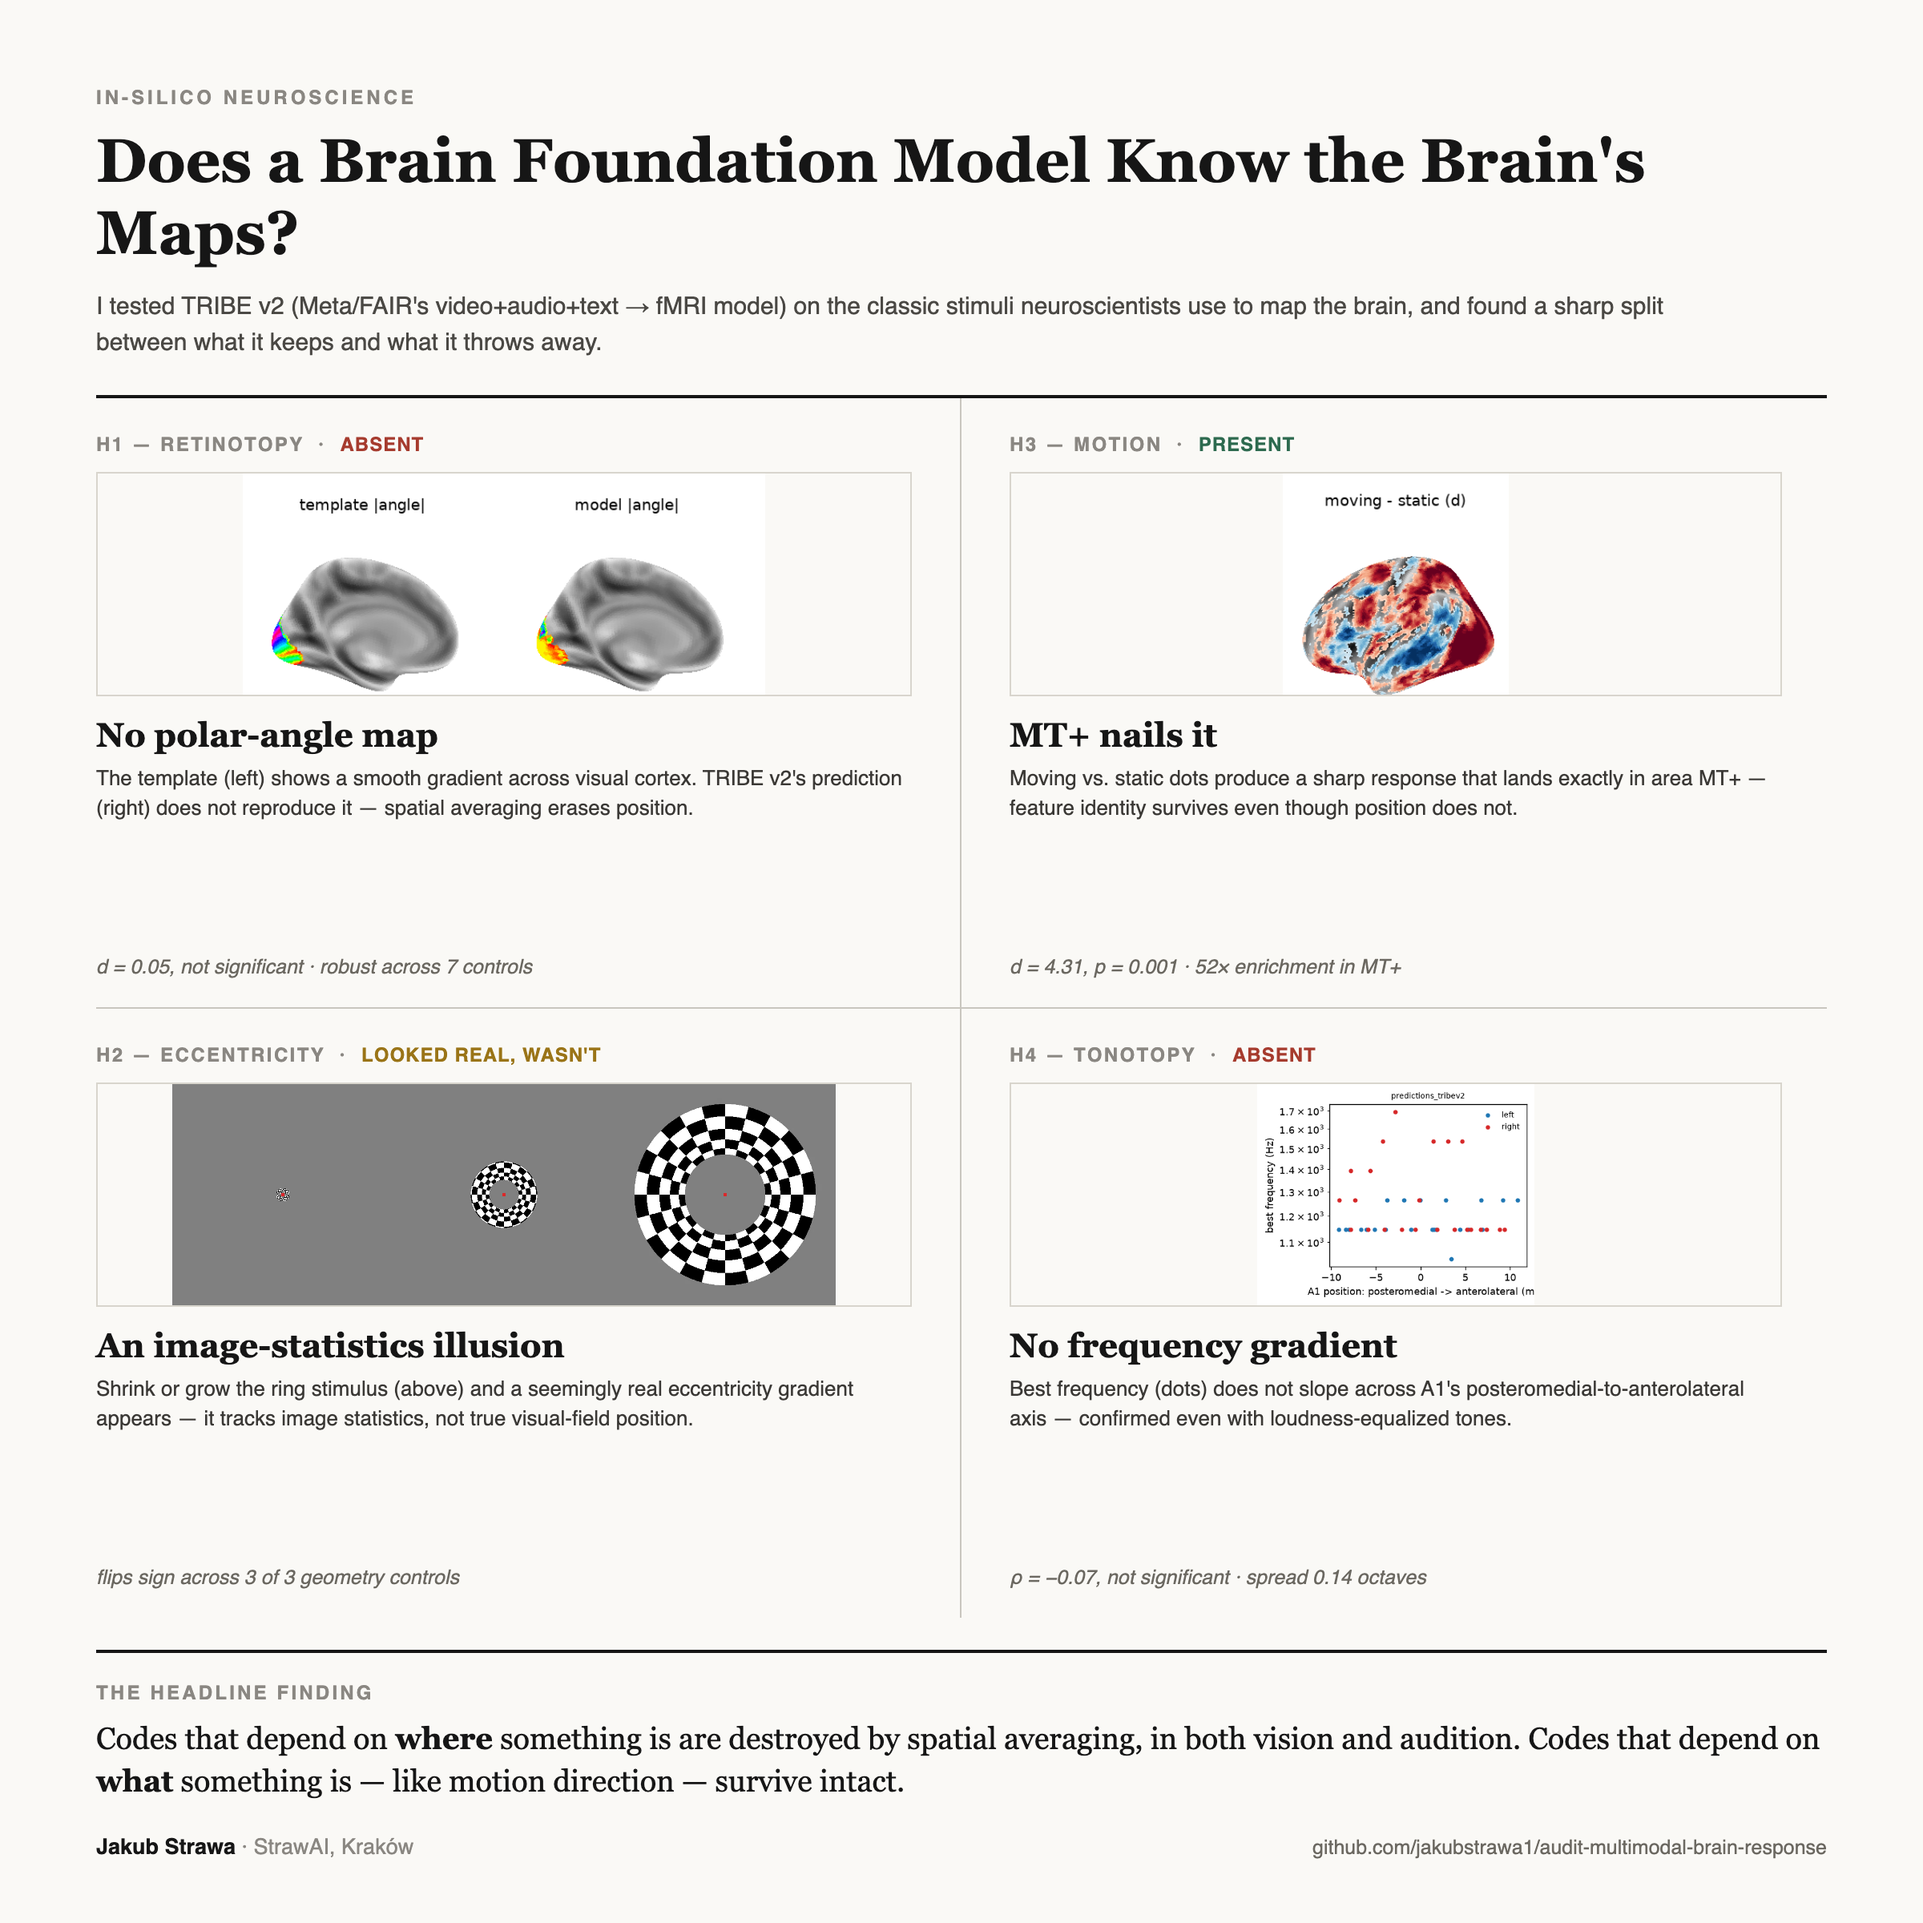
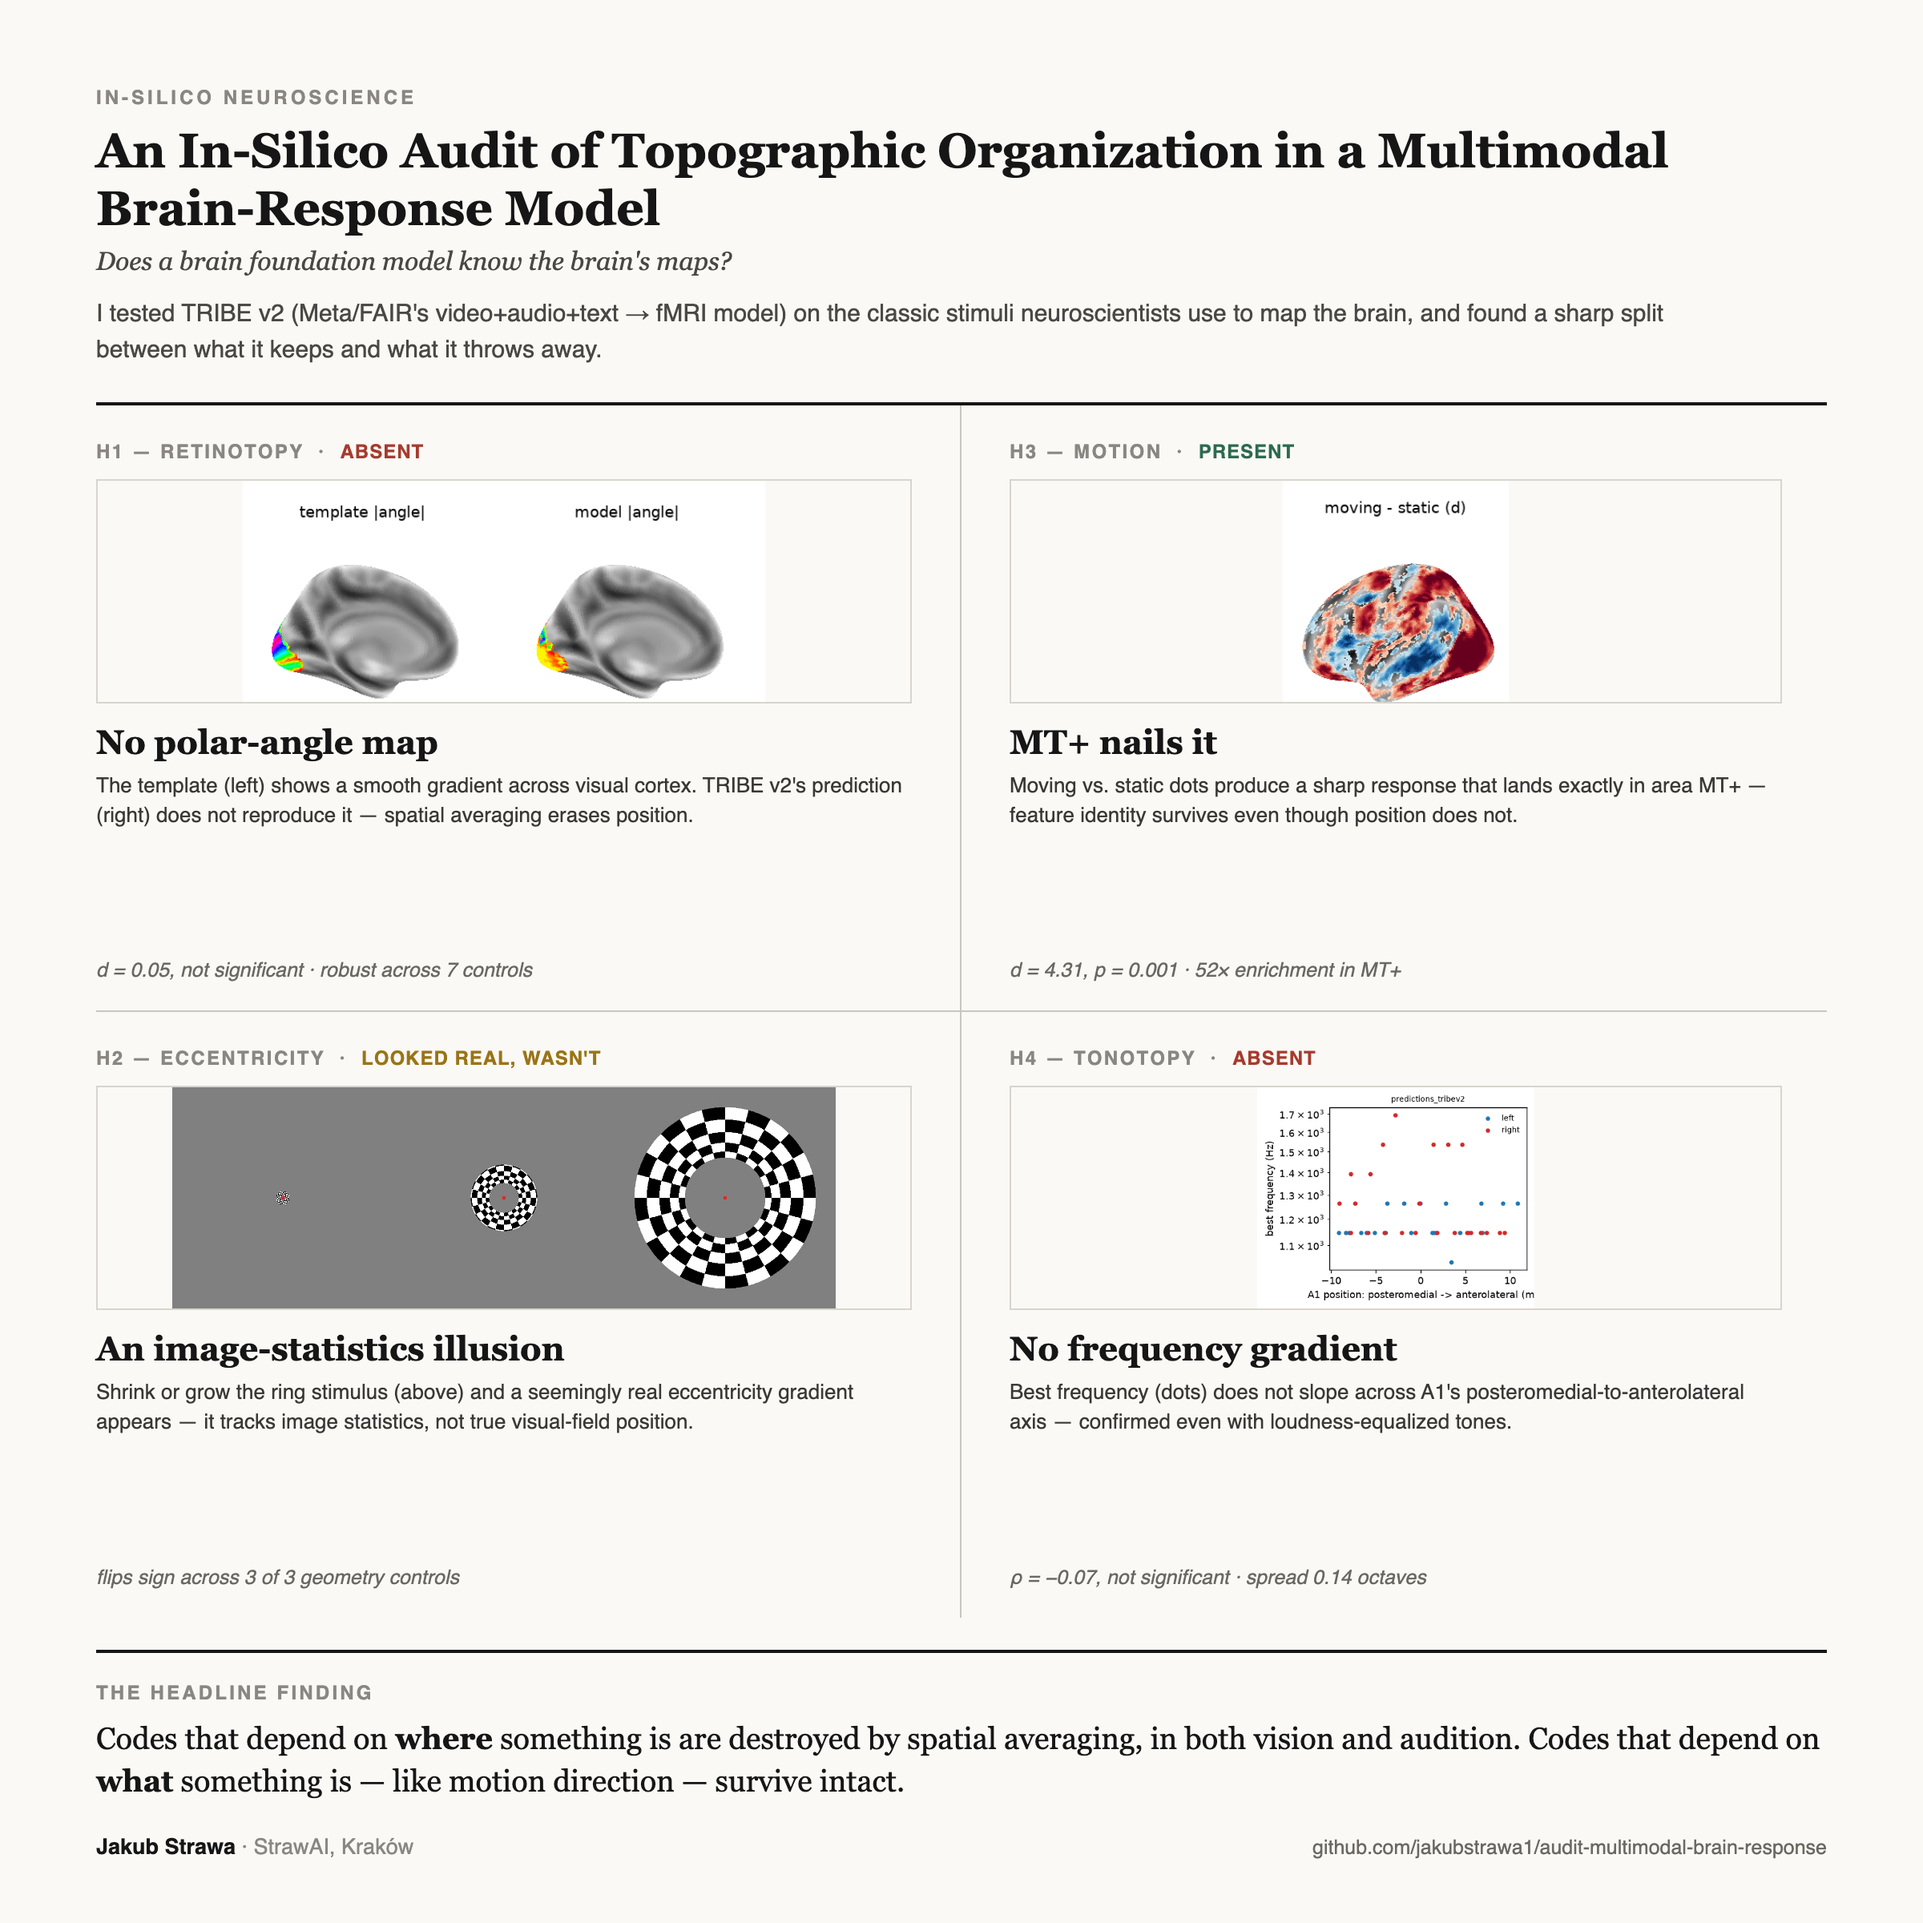
Use the paper's actual title as the poster headline, keep catchy phrase as tagline

diff --git a/poster/poster.html b/poster/poster.html
@@ -28,11 +28,17 @@
     font-weight: 700;
   }
   h1 {
-    font-size: 38px;
-    line-height: 1.18;
+    font-size: 30px;
+    line-height: 1.2;
     font-weight: 700;
-    margin-top: 10px;
-    max-width: 1000px;
+    margin-top: 8px;
+    max-width: 1020px;
+  }
+  .tagline {
+    font-size: 16px;
+    font-style: italic;
+    color: #4a4844;
+    margin-top: 6px;
   }
   .subtitle {
     font-family: Helvetica, Arial, sans-serif;
@@ -159,7 +165,8 @@
 <div class="wrap">
 
   <div class="kicker">In-Silico Neuroscience</div>
-  <h1>Does a Brain Foundation Model Know the Brain's Maps?</h1>
+  <h1>An In-Silico Audit of Topographic Organization in a Multimodal Brain-Response Model</h1>
+  <div class="tagline">Does a brain foundation model know the brain's maps?</div>
   <div class="subtitle">
     I tested TRIBE v2 (Meta/FAIR's video+audio+text &rarr; fMRI model) on the classic stimuli
     neuroscientists use to map the brain, and found a sharp split between what it keeps and
